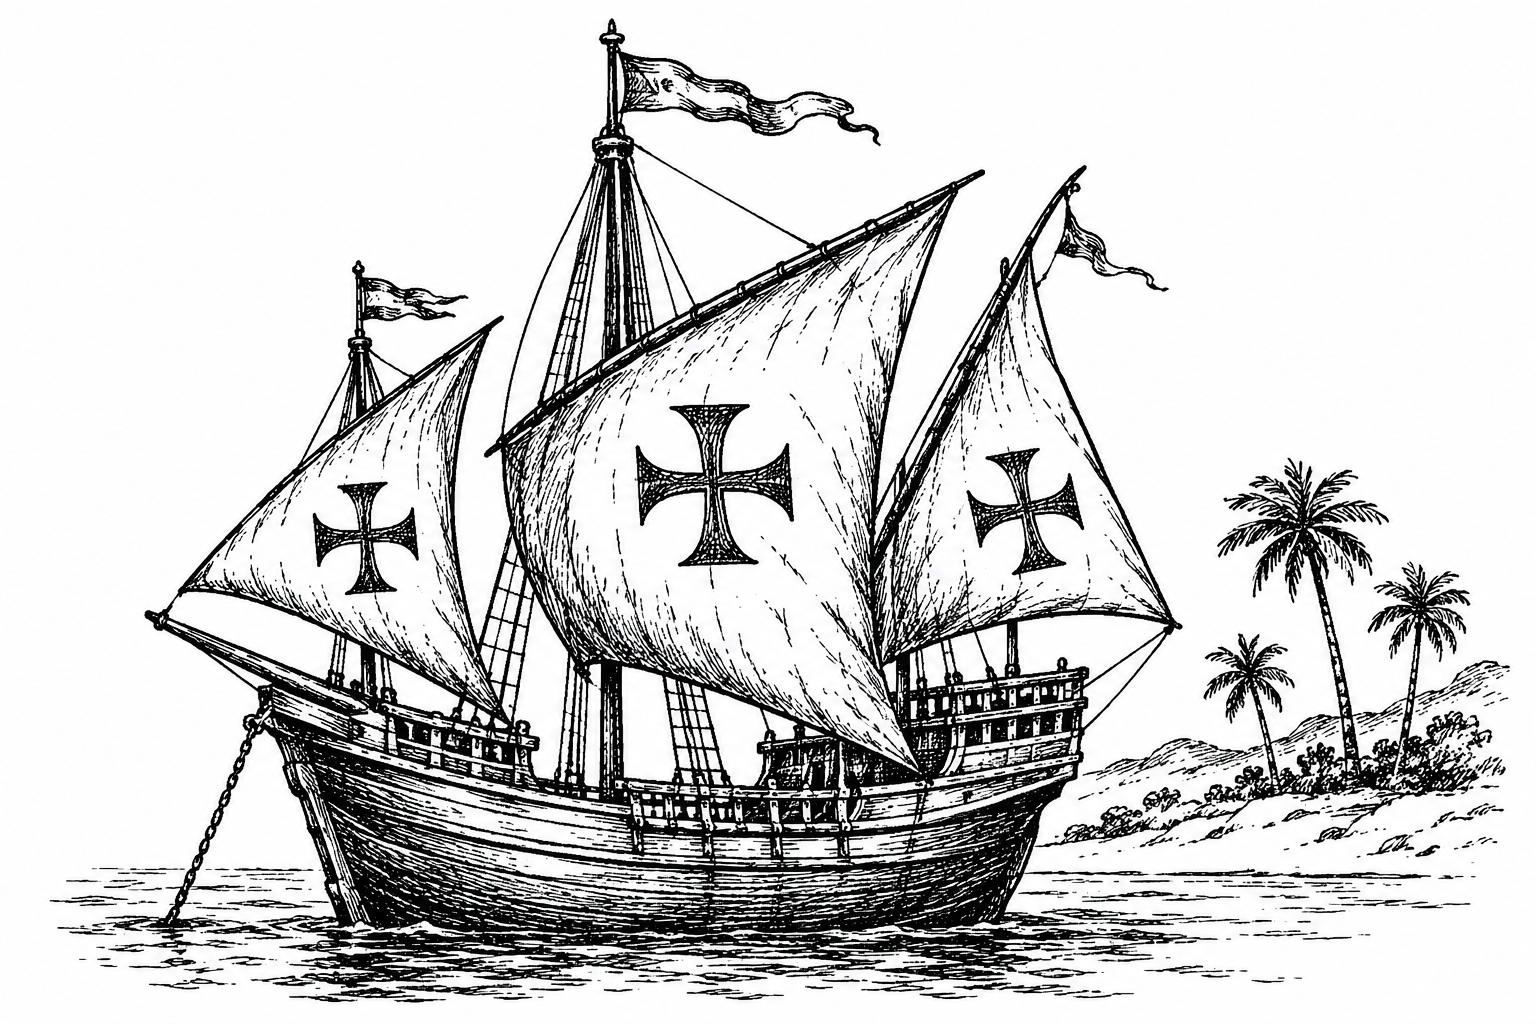
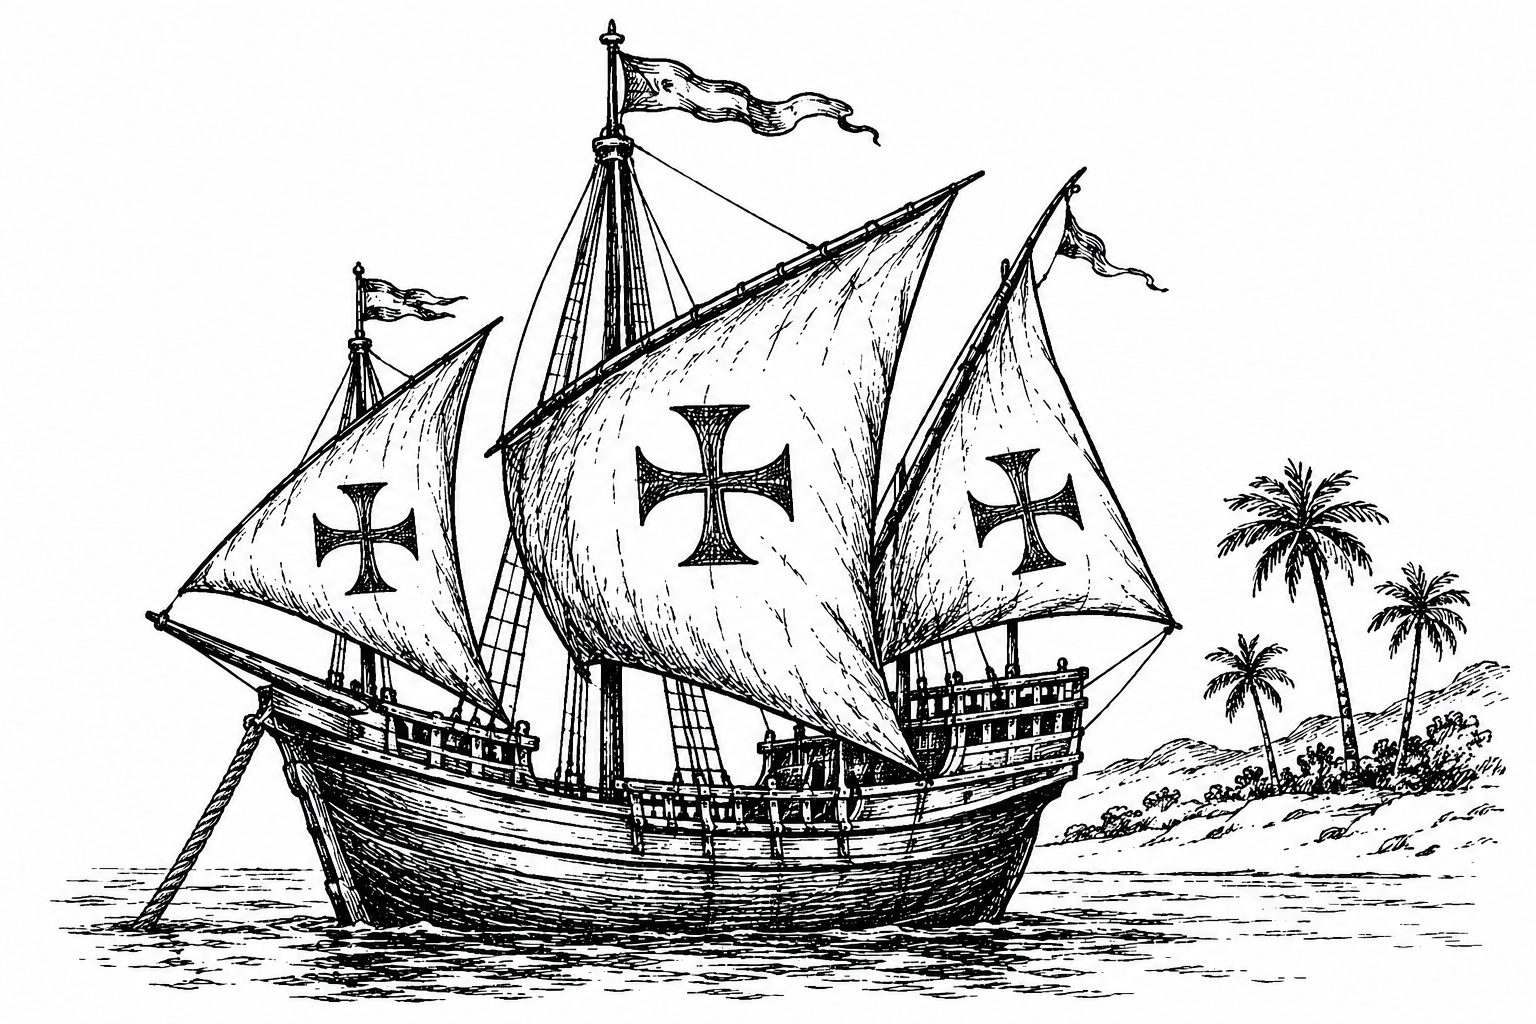
traite-atlantique: act 2 (row 2 of the timeline, motif turns south on M02), G05 rope fix, paragraph pause after clip 3, act opens on the previous pull-back
Claude-Session: https://claude.ai/code/session_0111fVE69LFB8Kb2i5W2PAL3

diff --git a/videos/traite-atlantique/act2.py b/videos/traite-atlantique/act2.py
@@ -1,0 +1,66 @@
+"""Acte 2 : Le besoin de bras. Narration clips 3-4.
+
+The second row of the timeline board. The act opens at rest on act 1's pull-back, then the camera
+travels to the start of the row (the carriage return) and moves forward in time: the Mediterranean
+galley, the Portuguese caravel, the three crops, the empty field, the Taíno village, the map M02
+where the motif turns south (Europe -> Africa), then slavery in Africa before the trade (town,
+cowries, farmer, family). Locked off: G06, G11.
+"""
+import json
+import os
+import sys
+from vox import *  # noqa: F401,F403
+import style as st
+import board as BD
+import act1
+from ta import locked, route, chainer, write
+
+CLIPS = (3, 4)
+cue = make_cue(CLIPS)
+LAND = 1.2
+
+
+def arrive(clip, phrase, n=1):
+    return cue(clip, phrase, n) + LAND
+
+
+E = BD.Entry
+ENTRIES = [
+    E('G04', 'la galère', None),                                         # opens with the travel down to row 2: « contacts par la Méditerranée »
+    E('G05', 'la caravelle', arrive(3, 'débuté'), max_dur=2.2),                      # « La traite… fin des années 1400… portugaises »
+    locked(E('G06', 'canne, tabac, coton', arrive(3, 'Dans'))),         # « la canne à sucre, le tabac et le coton »
+    E('G07', 'le champ vide', arrive(3, 'colons')),                     # « …trop peu nombreux pour cultiver… »
+    E('G08', 'le village taïno', arrive(3, 'Amerindiens') - 0.5),       # « Les Amérindiens… d'autres ont résisté »
+    E('M02', "vers l'Afrique", arrive(3, 'repondre'), max_dur=1.8),                  # « …les Européens se sont alors tournés vers l'Afrique »
+    E('G09', 'la ville', arrive(4, 'L’esclavage')),                     # « L'esclavage y existait depuis des siècles »
+    E('G10', 'les cauris', arrive(4, 'Certains')),                      # « des sortes d'engagés… racheter leur liberté »
+    locked(E('G11', 'le paysan', arrive(4, 'D’autres'), max_dur=2.4)),  # « …aux serfs européens »
+    E('G12', 'la famille', arrive(4, 'Dans')),                          # « …positions de pouvoir »
+]
+END = cue.total + 1.2
+BOARD = BD.Board(ENTRIES, before=act1.ENTRIES, end=END)
+G, chain = chainer(ENTRIES)
+M02 = json.load(open(os.path.join(os.path.dirname(os.path.abspath(__file__)), 'assets', 'M02.json')))
+
+chain('G04', [(lambda at: write('Méditerranée', 62, 0.50, 1.10, at, frac='ink'), cue(3, 'Méditerranée'))])
+chain('G05', [(lambda at: write('fin des années 1400', 62, 0.50, 1.10, at, frac='ink'), cue(3, '1400'))])
+chain('G06', [(lambda at: write('canne à sucre', 52, 0.17, 1.08, at, frac='ink'), cue(3, 'canna')),
+              (lambda at: write('tabac', 52, 0.50, 1.08, at, frac='ink'), cue(3, 'tabac')),
+              (lambda at: write('coton', 52, 0.84, 1.08, at, frac='ink'), cue(3, 'coton'))])
+chain('G07', [(lambda at: write('trop peu nombreux', 62, 0.50, -0.06, at, frac='ink'), cue(3, 'nombreux'))])
+chain('M02', [(lambda at: route(M02['pins'], at, 1.8, arrow=True), cue(3, 'tournés'))])        # the motif turns south
+chain('G10', [(lambda at: write('engagés', 60, 0.28, 1.07, at, frac='ink'), cue(4, 'd’engagés')),
+              (lambda at: write('durée limitée', 56, 0.72, 1.07, at, frac='ink'), cue(4, 'limitée'))])
+chain('G11', [(lambda at: write('serfs', 64, 0.50, 1.10, at, frac='ink'), cue(4, 'serfs'))])
+chain('G12', [(lambda at: write('positions de pouvoir', 60, 0.50, 1.08, at, frac='ink'), cue(4, 'pouvoir'))])
+
+SHOTS = [(0.0, BOARD.scene)]
+
+
+def frame(t):
+    return st.make_frame(SHOTS, END, t, CLIPS)
+
+
+if __name__ == '__main__':
+    if sys.argv[1] == 'sheet':
+        contact_sheet(frame, [float(x) for x in sys.argv[3:]], sys.argv[2])

diff --git a/videos/traite-atlantique/act1.py b/videos/traite-atlantique/act1.py
@@ -12,22 +12,16 @@ import sys
 from vox import *  # noqa: F401,F403
 import style as st
 import scenes as S
-import annotate as A
 import board as BD
+from ta import locked, route, chainer, ACCENT
 
 CLIPS = (1, 2)
 cue = make_cue(CLIPS)
 LAND = 1.2                     # the camera sets off on the sentence's first word and lands just after it
-ACCENT = S.PAL.accent          # the motif's ink, and only the motif's
 
 
 def arrive(clip, phrase, n=1):
     return cue(clip, phrase, n) + LAND
-
-
-def locked(e):
-    e.lock = True
-    return e
 
 
 E = BD.Entry
@@ -45,30 +39,8 @@ ENTRIES.append(PULL)                                                     # pull-
 
 END = cue.total + 1.2          # silence before the next act
 BOARD = BD.Board(ENTRIES, end=END)
-G = {e.code: e for e in ENTRIES if not e.look}
-DONE = {c: e.start + e.dur + 0.15 for c, e in G.items()}   # one pen at a time: words after their drawing
+G, chain = chainer(ENTRIES)
 M01 = json.load(open(os.path.join(os.path.dirname(os.path.abspath(__file__)), 'assets', 'M01.json')))
-
-
-def route(pts, at, dur=1.4):
-    """The motif: a dashed route in the accent ink, between points given as fractions of the
-    drawing's image (the map's pins), drawn by the pen inside the drawing's own canvas."""
-    def fn(c, lt, e):
-        bx, by, bw, bh = e.d.box
-        A.connect(c, [(bx + x * bw, by + y * bh) for x, y in pts], lt, at - e.start, dur=dur,
-                  dashed=True, dots=False, width=8, sound=False, colour=ACCENT, arrowhead=False)
-    fn.sound = (at, dur, lambda: ((0.0, 1.0),))
-    return fn
-
-
-def chain(code, items):
-    """One pen at a time: each mark starts when the previous one is finished, never before it is said."""
-    t = DONE[code]
-    for make, said in items:
-        at = max(t, said)
-        fn = make(at)
-        G[code].extras.append(fn)
-        t = at + fn.sound[1] + 0.15
 
 
 LIS, ELM, HIS = M01['pins']

diff --git a/videos/traite-atlantique/ta.py b/videos/traite-atlantique/ta.py
@@ -1,0 +1,42 @@
+"""Helpers shared by the acts of La traite atlantique."""
+import annotate as A
+import scenes as S
+import board as BD
+
+ACCENT = S.PAL.accent          # the motif's ink (oxblood), and only the motif's
+
+
+def locked(e):
+    """One drawing in three: no camera push, the pen is the only movement."""
+    e.lock = True
+    return e
+
+
+def route(pts, at, dur=1.4, arrow=False, width=8):
+    """The motif: a dashed route in the accent ink between points given as fractions of the
+    drawing's image (a map's pins), drawn by the pen inside the drawing's own canvas."""
+    def fn(c, lt, e):
+        bx, by, bw, bh = e.d.box
+        A.connect(c, [(bx + x * bw, by + y * bh) for x, y in pts], lt, at - e.start, dur=dur,
+                  dashed=True, dots=False, width=width, sound=False, colour=ACCENT, arrowhead=arrow)
+    fn.sound = (at, dur, lambda: ((0.0, 1.0),))
+    return fn
+
+
+def chainer(entries):
+    """One pen at a time: each mark on a drawing starts when the drawing (or the previous mark) is
+    finished, and never before its word is said."""
+    G = {e.code: e for e in entries if not e.look}
+    done = {c: e.start + e.dur + 0.15 for c, e in G.items()}
+
+    def chain(code, items):
+        t = done[code]
+        for make, said in items:
+            at = max(t, said)
+            fn = make(at)
+            G[code].extras.append(fn)
+            t = at + fn.sound[1] + 0.15
+    return G, chain
+
+
+write = BD.write

diff --git a/videos/traite-atlantique/board.py b/videos/traite-atlantique/board.py
@@ -200,6 +200,7 @@ class Board:
         marks: pen lines and words placed on the board itself (Line, Note), across drawings."""
         self.entries = entries
         self.before = [b_ for b_ in before if not b_.look]
+        self.last_before = before[-1] if before else None   # may be a look stop (a pull-back): the act opens on it
         prev = self.spot(before[-1]) if before else None
         # one drawing per view, at full size (the user: two framed together « make the draws look
         # small »): every drawing gets its own view; a drawing that used to share the previous view
@@ -283,7 +284,7 @@ class Board:
             nxt = stops[i + 1][0] if i + 1 < len(stops) else (self.end or rest_from + 8)
             k = _ease((t - rest_from) / max(0.5, nxt - rest_from))
             return x1 + fx1 * k, y1 + fy1 * k, zr * (1 + (0.0 if (e.look or e.stay or getattr(e, 'still', False)) else PUSH) * k)
-        pe = self.before[-1] if i == 0 else stops[i - 1][1]
+        pe = self.last_before if i == 0 else stops[i - 1][1]
         px, py, pfx, pfy = self.spot(pe)
         x0, y0 = px + pfx, py + pfy
         z0 = (pe.zoom or ZOOM) * (1 + (0.0 if (pe.look or pe.stay or getattr(pe, 'still', False)) else PUSH))

diff --git a/videos/traite-atlantique/tools/make_maps.py b/videos/traite-atlantique/tools/make_maps.py
@@ -185,3 +185,9 @@ if __name__ == '__main__':
     # Hispaniola (Caribbean) - the corners of the dashed triangle, the film's motif.
     region_map(A('M01'), ('Europe', 'Africa', 'North America', 'South America'), (-100, 42, -38, 62),
                [(-9.14, 38.72, False), (-1.35, 5.08, False), (-70.7, 19.0, False)], Wd=1500, Hd=1000, frame=True)
+    # M02: Europe and Africa; the motif turns south: one dashed arrow from Lisbon down the coast
+    # (past Cape Verde) to the Gold Coast (« les Européens se sont alors tournés vers l'Afrique »).
+    region_map(A('M02'), ('Europe', 'Africa'), (-32, 52, -36, 62),
+               [(-9.14, 38.72, False), (-19.5, 22.0, False), (-19.0, 12.0, False), (-1.35, 5.08, False)],
+               Wd=1100, Hd=1100, frame=True)
+

diff --git a/videos/traite-atlantique/tools/make_layout.py b/videos/traite-atlantique/tools/make_layout.py
@@ -14,7 +14,7 @@ ROWS = [
     ['G34', 'G35', 'G36', 'G37', 'G38', 'G44'],
 ]
 FIRST_COL = [5, 0, 0, 0, 0, 0]            # act 1 starts above G44's column
-SX, SY, JX, JY = 1930, 1250, 90, 70
+SX, SY, JX, JY = 1930, 1400, 90, 70
 GAP_LAST = 500                            # act 6 sits apart
 
 if __name__ == '__main__':
